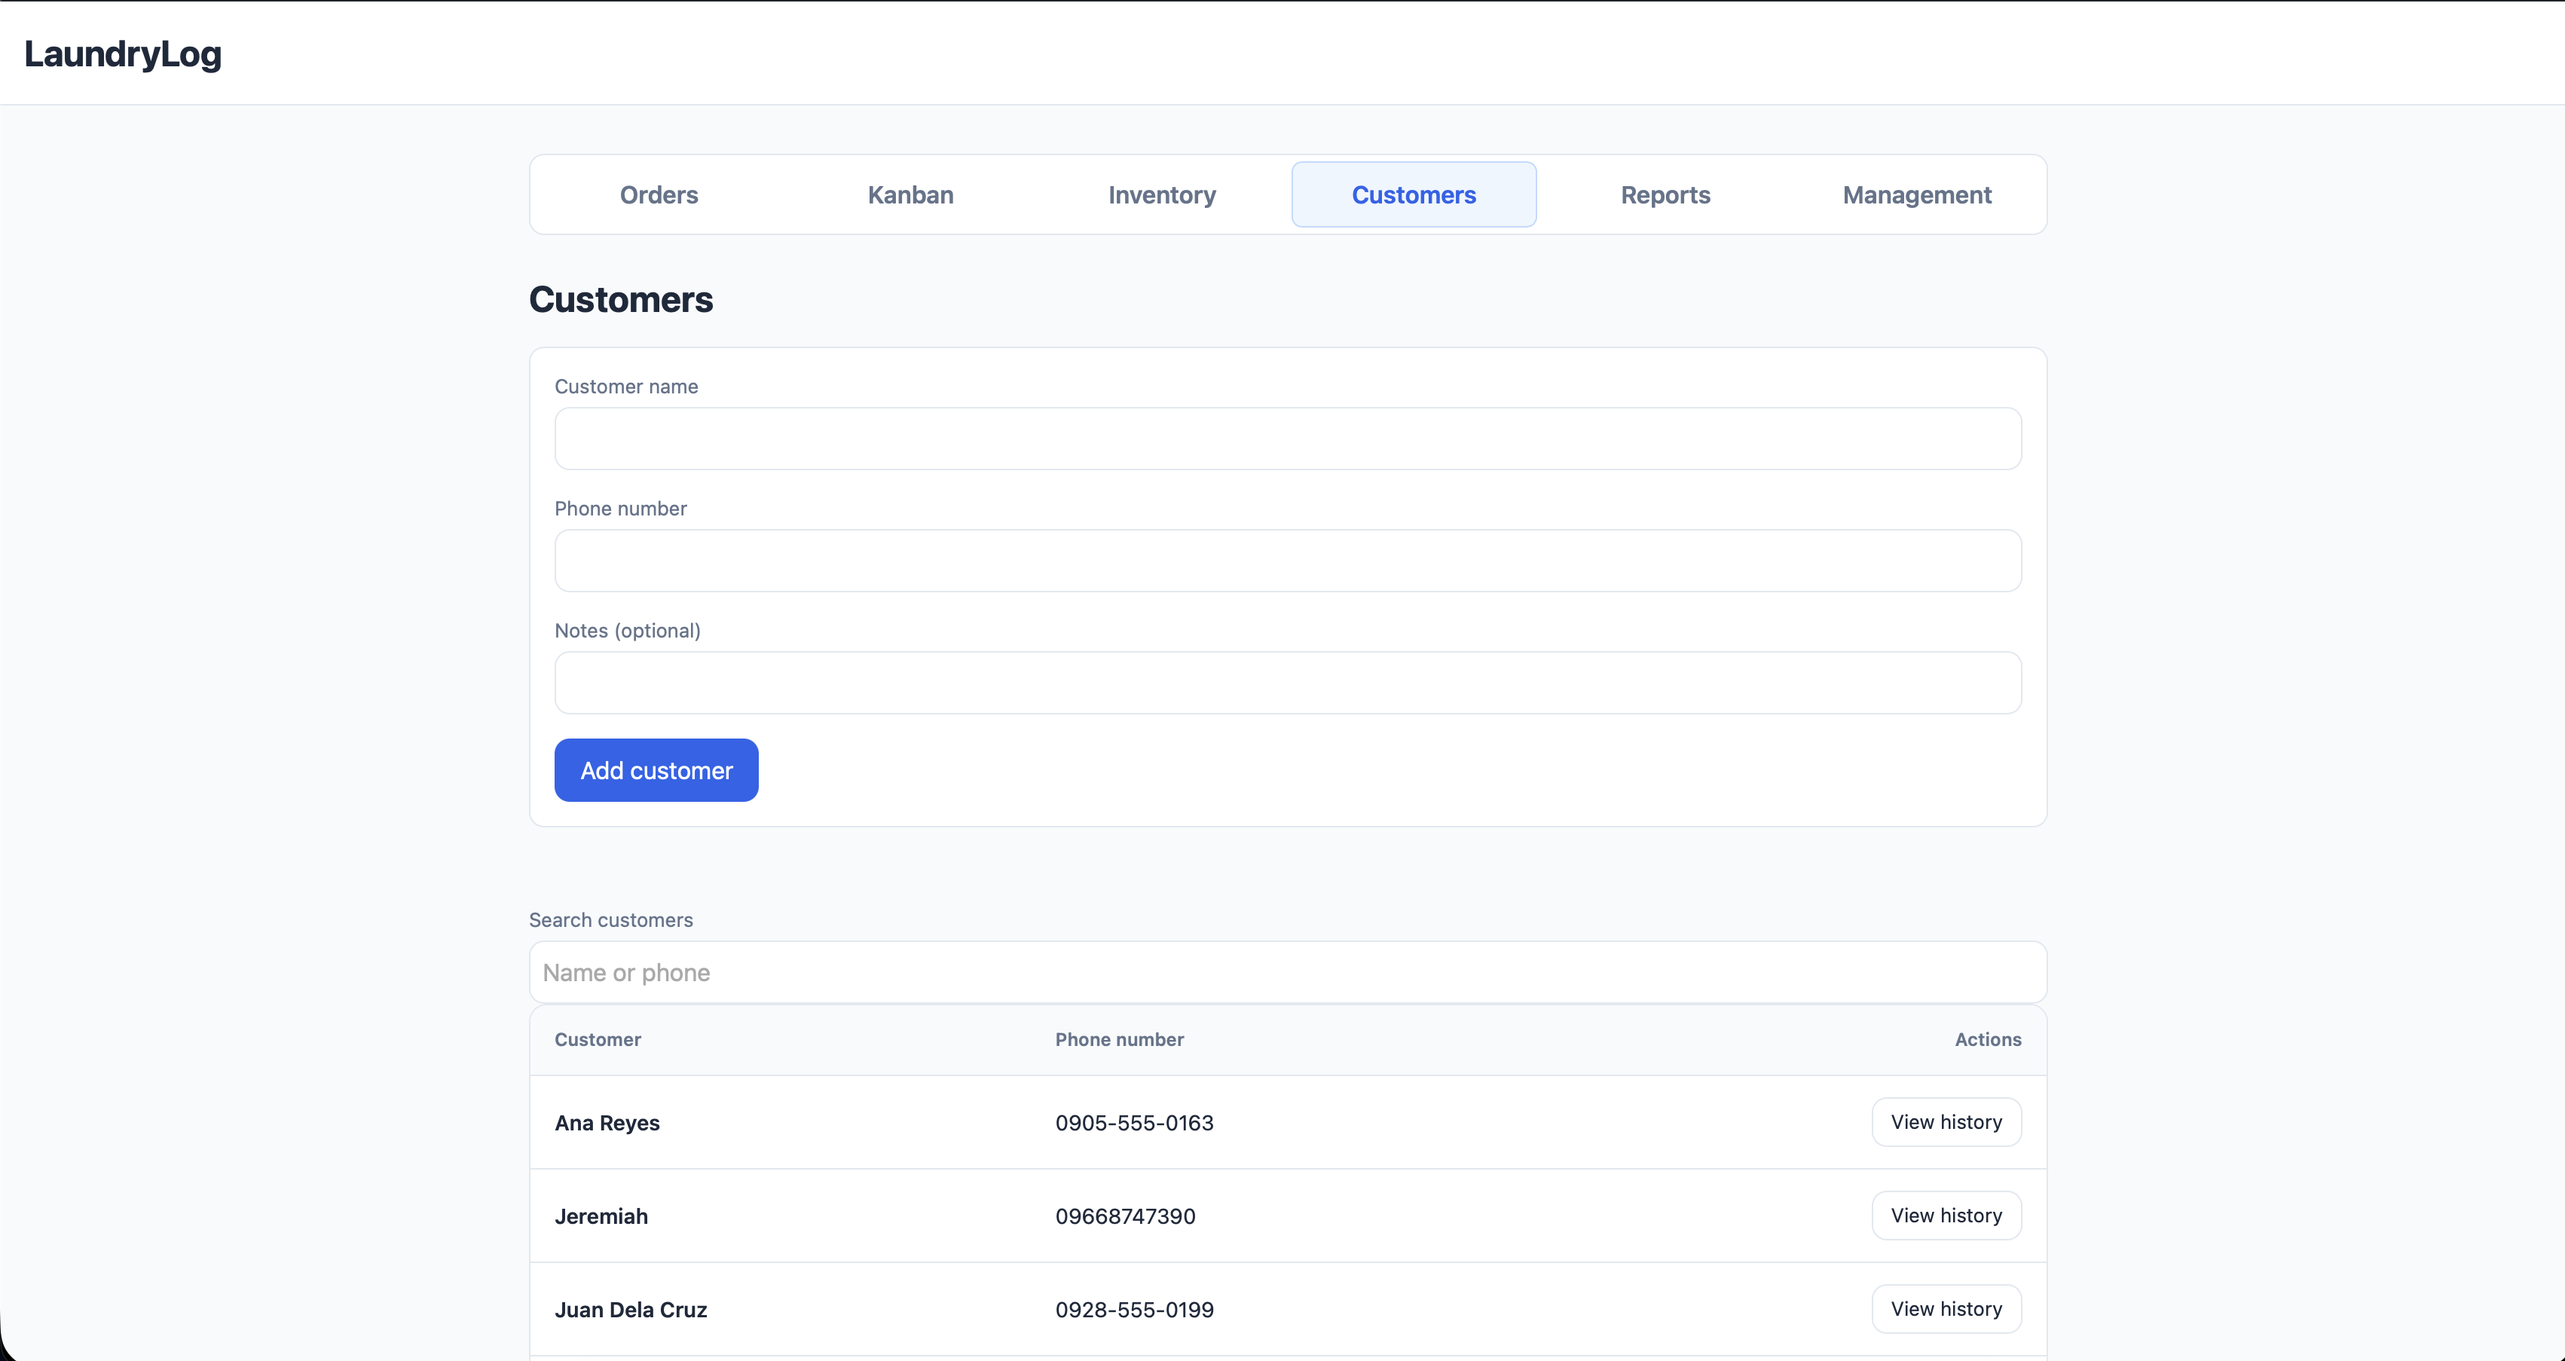
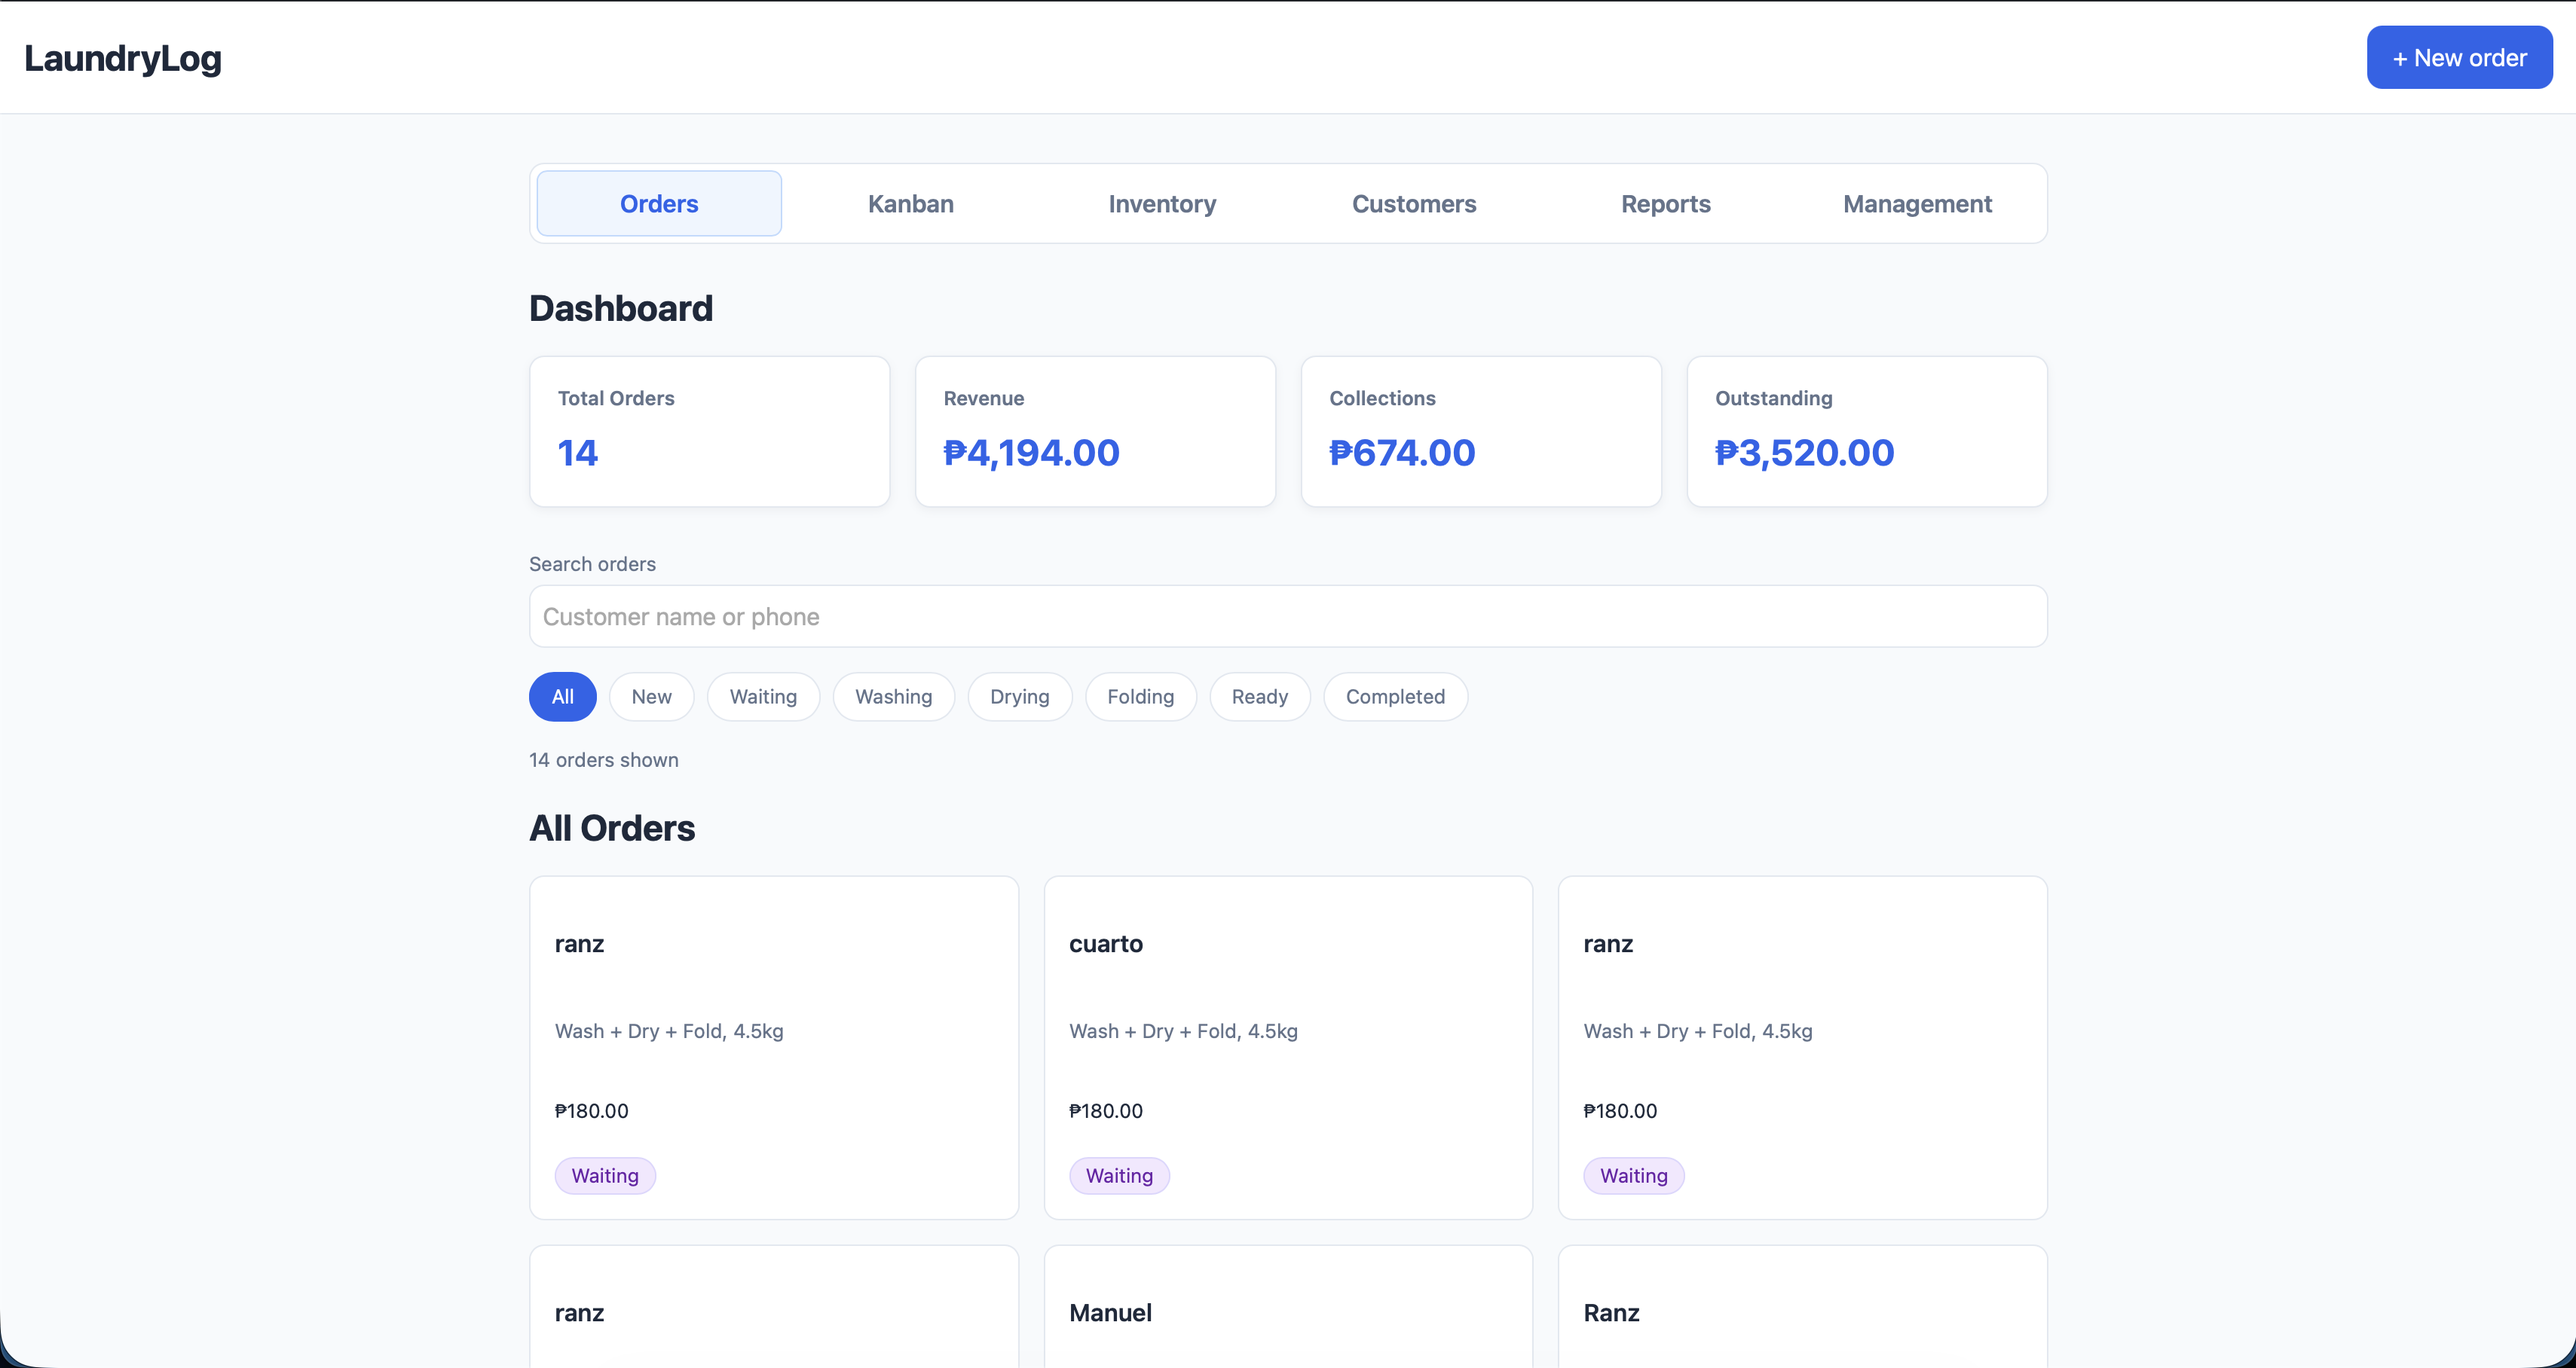
Clean up demo data, retake screenshots and update docs

diff --git a/docs/06-security-and-privacy.md b/docs/06-security-and-privacy.md
@@ -3,63 +3,63 @@
 **Project:** LaundryLog
 **Repository:** https://github.com/rnzcrt/LaundryLog
 **Live application:** https://laundrylog.onrender.com
-**Last reviewed:** October 2026
+**Last reviewed:** October 4, 2026
 
 ## 1. Repository Security
 
 | Checklist                                                          | Status     |
 | ------------------------------------------------------------------ | ---------- |
 | `.gitignore` excludes `.env`                                       | [x] Added  |
-| `git check-ignore -v .env` confirms `.env` is ignored              | [ ] Verify |
-| No `.env`, `.pem`, or `id_rsa` files are tracked                   | [ ] Verify |
+| `git check-ignore -v .env` confirms `.env` is ignored              | [x] Checked |
+| No `.env`, `.pem`, or `id_rsa` files are tracked                   | [x] Checked |
 | `.env.example` contains placeholder values only                    | [x] Added  |
-| No database connection strings, passwords, or API keys are exposed | [ ] Verify |
-| No `student.json` or unnecessary personal information is committed | [ ] Verify |
-| Screenshots and documentation contain no credentials               | [ ] Verify |
+| No database connection strings, passwords, or API keys are exposed | [x] Checked |
+| No `student.json` or unnecessary personal information is committed | [x] No `student.json`; the author name appears in the README, docs and `LICENSE` |
+| Screenshots and documentation contain no credentials               | [x] Checked; no credentials visible |
 
-The project uses `.gitignore` to exclude local environment files and `.env.example` to document required environment variables without including actual credentials. These protections should be checked again before final submission.
+The project uses `.gitignore` to exclude local environment files and `.env.example` to document required environment variables without including actual credentials. I checked these with `git check-ignore`, `git ls-files` and a search of tracked files for connection strings and passwords.
 
 ## 2. Application Security
 
 | Checklist                                                                    | Status                                                                   |
 | ---------------------------------------------------------------------------- | ------------------------------------------------------------------------ |
-| SQL queries use parameterized values                                         | [ ] Verify all queries                                                   |
+| SQL queries use parameterized values                                         | [x] Values go through `$1`, `$2` placeholders; dynamic `WHERE` clauses are built only from placeholders |
 | Server-side validation is implemented                                        | [x] Implemented for key order, machine, add-on, and inventory operations |
-| Text fields have appropriate length limits                                   | [ ] Verify all fields                                                    |
-| CORS is restricted to allowed origins                                        | [ ] Verify configuration                                                 |
-| Production environment is configured on Render                               | [ ] Verify `NODE_ENV`                                                    |
-| Error responses avoid exposing stack traces                                  | [x] Error handling was improved; verify all responses                    |
-| Helmet is installed and configured                                           | [ ] Verify                                                               |
-| Sensitive or costly endpoints are rate limited                               | [ ] Verify                                                               |
-| Passwords are securely hashed, if user accounts are supported                | N/A — verify account design                                              |
-| Data-access routes enforce ownership checks, if multiple users are supported | N/A — verify account design                                              |
-| `npm audit` has been run and reviewed                                        | [ ] Verify                                                               |
+| Text fields have appropriate length limits                                   | [x] Names, phones, notes, units and add-on names are limited; JSON bodies are capped at 32 KB |
+| CORS is restricted to allowed origins                                        | N/A: CORS is not enabled; the frontend and API are served from the same origin |
+| Production environment is configured on Render                               | [ ] Not verified: check `NODE_ENV` in the Render dashboard |
+| Error responses avoid exposing stack traces                                  | [x] Unexpected errors return a generic 500; details go to the server log only |
+| Helmet is installed and configured                                           | No: Helmet is not used. Security headers are set manually in `src/app.js` (`nosniff`, a Content Security Policy, `x-powered-by` disabled) |
+| Sensitive or costly endpoints are rate limited                               | No: not implemented; listed as a limitation |
+| Passwords are securely hashed, if user accounts are supported                | N/A: no user accounts; one shared login whose credentials are environment variables |
+| Data-access routes enforce ownership checks, if multiple users are supported | N/A: single shared login, no per-user data |
+| `npm audit` has been run and reviewed                                        | [x] `npm audit --omit=dev` reported 0 vulnerabilities |
 
 ### Validation and Error Handling
 
 LaundryLog includes backend validation for important operations, including order workflow transitions, machine assignment, machine capacity, add-ons, and inventory product selection.
 
-Server-side validation is important because requests can be sent directly to the API without using the frontend. The backend should reject invalid values and return appropriate error responses.
+Server-side validation is important because requests can be sent directly to the API without using the frontend. The backend rejects invalid values and returns JSON error responses (400 for bad input, 413 for oversized bodies, 409 for conflicts).
 
 ### Database Security
 
-The application uses PostgreSQL. SQL queries should use parameterized values to reduce the risk of SQL injection. Database credentials should be stored in environment variables and should not be committed to the public repository.
+The application uses PostgreSQL. SQL queries use parameterized values to reduce the risk of SQL injection. Database credentials are stored in environment variables and are not committed to the public repository.
 
 ### Deployment Security
 
-The application is hosted on Render. Before final submission, verify the production environment settings, CORS configuration, security headers, and error responses in the deployed application.
+The application is hosted on Render. Still to confirm in the Render dashboard: the production `NODE_ENV` setting. The app sets its own security headers and does not enable CORS.
 
 ## 3. Privacy
 
 | Checklist                                                          | Status     |
 | ------------------------------------------------------------------ | ---------- |
-| Seed data is invented and does not identify real customers         | [ ] Verify |
-| No real classmates' names, numbers, emails, or photos are included | [ ] Verify |
-| Real testers' personal information has been removed                | [ ] Verify |
-| Screenshots and demo video do not expose personal information      | [ ] Verify |
-| The app explains what personal information it collects             | [ ] Verify |
-| Only necessary customer information is collected                   | [ ] Review |
-| No unnecessary personal information is stored in logs              | [ ] Verify |
+| Seed data is invented and does not identify real customers         | [x] Seed customers use made-up names and 555 phone numbers |
+| No real classmates' names, numbers, emails, or photos are included | [ ] To do: remove test customers with real-looking data from the live database |
+| Real testers' personal information has been removed                | [ ] To do: see above |
+| Screenshots and demo video do not expose personal information      | [ ] To do: retake the screenshots after the data is cleaned |
+| The app explains what personal information it collects             | [x] README section 10 explains it; the app collects customer name, phone and notes |
+| Only necessary customer information is collected                   | [x] Name, phone and optional notes only |
+| No unnecessary personal information is stored in logs              | [x] Request logs record method, path, status and time only |
 
 LaundryLog manages customer and order information. The project should use fictional customer details in seed data, screenshots, and the demonstration video. Any personal information collected during testing should be removed before public submission unless there is a valid reason and appropriate consent to retain it.
 

diff --git a/README.md b/README.md
@@ -256,35 +256,35 @@ The orders endpoint supports status and customer-search filters. The load-plan e
     ├── LICENSE                  Project license
     └── README.md
     
-## 8. Screenshots and design references
+## 8. Screenshots
 
-Screenshots are stored in docs/assets/.
+These are screenshots of the running application. They are stored in `docs/assets/`.
 
 ### Desktop
 
-![Order list mockup](docs/assets/order-list.png)
+![Order list and dashboard](docs/assets/order-list.png)
 
-![New order mockup](docs/assets/new-order.png)
+![New order form](docs/assets/new-order.png)
 
-![Order detail mockup](docs/assets/order-detail.png)
+![Order detail with payments and machine loads](docs/assets/order-detail.png)
 
-![Machine management mockup](docs/assets/machines.png)
+![Machine management](docs/assets/machines.png)
 
-![Customer management mockup](docs/assets/customers.png)
+![Customer management](docs/assets/customers.png)
 
-![Inventory management mockup](docs/assets/inventory.png)
+![Inventory management](docs/assets/inventory.png)
 
-![Reports mockup](docs/assets/reports.png)
+![Sales and collections report](docs/assets/reports.png)
 
 ### Mobile
 
-![Mobile order list mockup](docs/assets/mobile-order-list.png)
+![Mobile order list](docs/assets/mobile-order-list.png)
 
-![Mobile new order mockup](docs/assets/mobile-new-order.png)
+![Mobile new order form](docs/assets/mobile-new-order.png)
 
-![Mobile order detail mockup](docs/assets/mobile-order-detail.png)
+![Mobile order detail](docs/assets/mobile-order-detail.png)
 
-Design references are available in docs/design-system/. Mockups are design references; check the live application to see the currently implemented interface.
+Design references (mockups and design-system exports) are in `docs/02-mockup.md` and `docs/design-system/`. The live application is the source of truth for the implemented interface.
 
 ## 9. Deployment notes
 

diff --git a/AI-USAGE.md b/AI-USAGE.md
@@ -118,7 +118,7 @@ I checked the old versions of each file with `git show 685dd12^:<file>`. The ear
 
 The first commit (`c7df593`) contains the starter LaundryLog app from the course archive: the Express app, routes, validators, database code, frontend, schema and styling. I did not write that and I do not claim it. Most later features were built with ChatGPT (section 1). The October 3 backend refactor (`basicAuth.js`, `errorHandler.js`, `orders.js`) came from a Claude review; I applied and tested it, but I do not list it here as code I wrote.
 
-What I can point to in the git history as my own work is below. It is small compared with the whole project, and I would rather say that than claim more.
+What I can point to in the git history as my own work is below. It is small compared with the whole project, and I would rather say that than claim more. In particular, I did not write the server routes, validators, SQL queries or migrations myself, so I am not claiming the one-fifth share of the Node, Express and Postgres code. My own code is the frontend feature, two small API tests and the check script listed below.
 
 ### Written by me
 

diff --git a/docs/05-demo-video.md b/docs/05-demo-video.md
@@ -31,18 +31,6 @@ The video will be recorded using the deployed LaundryLog application rather than
 * Optional add-ons at order completion
 * Customer and inventory management, if time allows
 
-## Recording Checklist
-
-* [ ] Open the deployed application in advance and confirm it is responding.
-* [ ] Prepare realistic demo data in advance.
-* [ ] Confirm the main workflow works from beginning to end.
-* [ ] Close unrelated browser tabs and hide personal information.
-* [ ] Ensure no `.env` file or credentials are visible.
-* [ ] Practice the full script and keep the recording within 3–5 minutes.
-* [ ] Record the video with my own voice.
-* [ ] Upload the video to Google Drive with public viewing access.
-* [ ] Add the video link to this document and the main README.
-
 ## Fallback Plan
 
 If the deployed application encounters an issue during recording, use a recording of the working application as a fallback. Screenshots may be used if a recording is unavailable, while clearly explaining any issue encountered.
